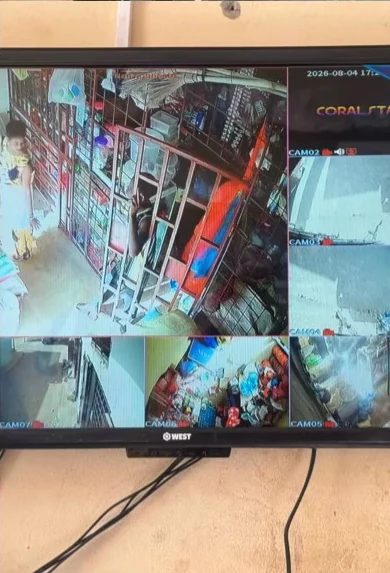
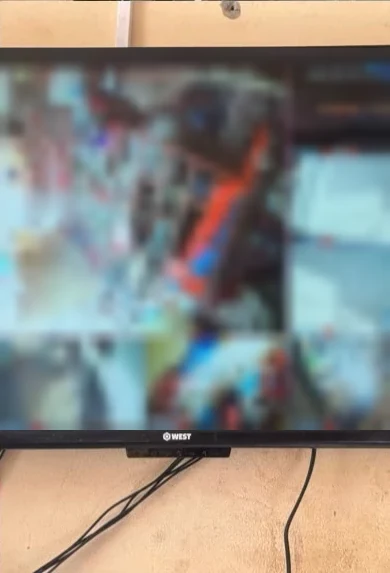
Réalisations : photos de terrain originales, écrans floutés, nouvelles affiches
- Remplacement par les originaux : façade de la boutique, caméra sous l'auvent, caméra dôme
- Écrans de supervision floutés (clients non identifiables), y compris l'existant
- Ajout : photo d'intervention sur site, affiche installation de caméras, affiche des services
  (recadrée, sans mention « AI-generated » ni identifiant)

Claude-Session: https://claude.ai/code/session_01YSWdLmHRUjaAozXBbWpQtK

diff --git a/src/data/content.js b/src/data/content.js
@@ -102,7 +102,7 @@ export const PROJECTS = [
       { type: 'image', src: R + 'boutique-facade.webp', pos: '50% 20%', alt: 'Façade de la boutique équipée' },
       { type: 'image', src: R + 'boutique-camera-dome.webp', pos: '50% 35%', alt: "Caméra dôme dans l'angle d'une pièce, câble sous goulotte" },
       { type: 'image', src: R + 'boutique-camera-angle.webp', pos: '50% 40%', alt: "Caméra extérieure fixée dans l'angle de l'auvent" },
-      { type: 'image', src: R + 'boutique-supervision.webp', pos: '50% 30%', alt: 'Écran de supervision avec les caméras en direct' },
+      { type: 'image', src: R + 'boutique-supervision.webp', pos: '50% 30%', alt: 'Écran de supervision avec les caméras (images floutées pour la confidentialité)' },
     ],
   },
   {
@@ -114,7 +114,8 @@ export const PROJECTS = [
     cols: 2,
     images: [
       { type: 'image', src: R + 'magasin-camera-dome.webp', pos: '50% 20%', alt: 'Caméra dôme fixée au plafond au-dessus des rayons' },
-      { type: 'image', src: R + 'magasin-supervision.webp', pos: '50% 45%', alt: 'Écran de supervision affichant quatre caméras' },
+      { type: 'image', src: R + 'magasin-supervision.webp', pos: '50% 45%', alt: 'Écran de supervision à quatre caméras (images floutées pour la confidentialité)' },
+      { type: 'image', src: R + 'magasin-selfie.webp', pos: '50% 30%', alt: 'Intervention sur site : vérification du système de vidéosurveillance' },
       {
         type: 'video',
         src: R + 'magasin-presentation.mp4',
@@ -143,6 +144,8 @@ export const PROJECTS = [
     wideMd: true,
     images: [
       { type: 'image', src: R + 'dds-affiche.webp', pos: '50% 0%', alt: 'Affiche DDS Tech & Security : développement web et mobile' },
+      { type: 'image', src: R + 'affiche-cameras.webp', pos: '50% 0%', alt: 'Affiche : installation de caméras de surveillance à Dakar' },
+      { type: 'image', src: R + 'affiche-services-h24.webp', pos: '50% 0%', alt: 'Affiche des services DDS : réparation, développement, maintenance, réseau et caméras' },
     ],
   },
 ]
